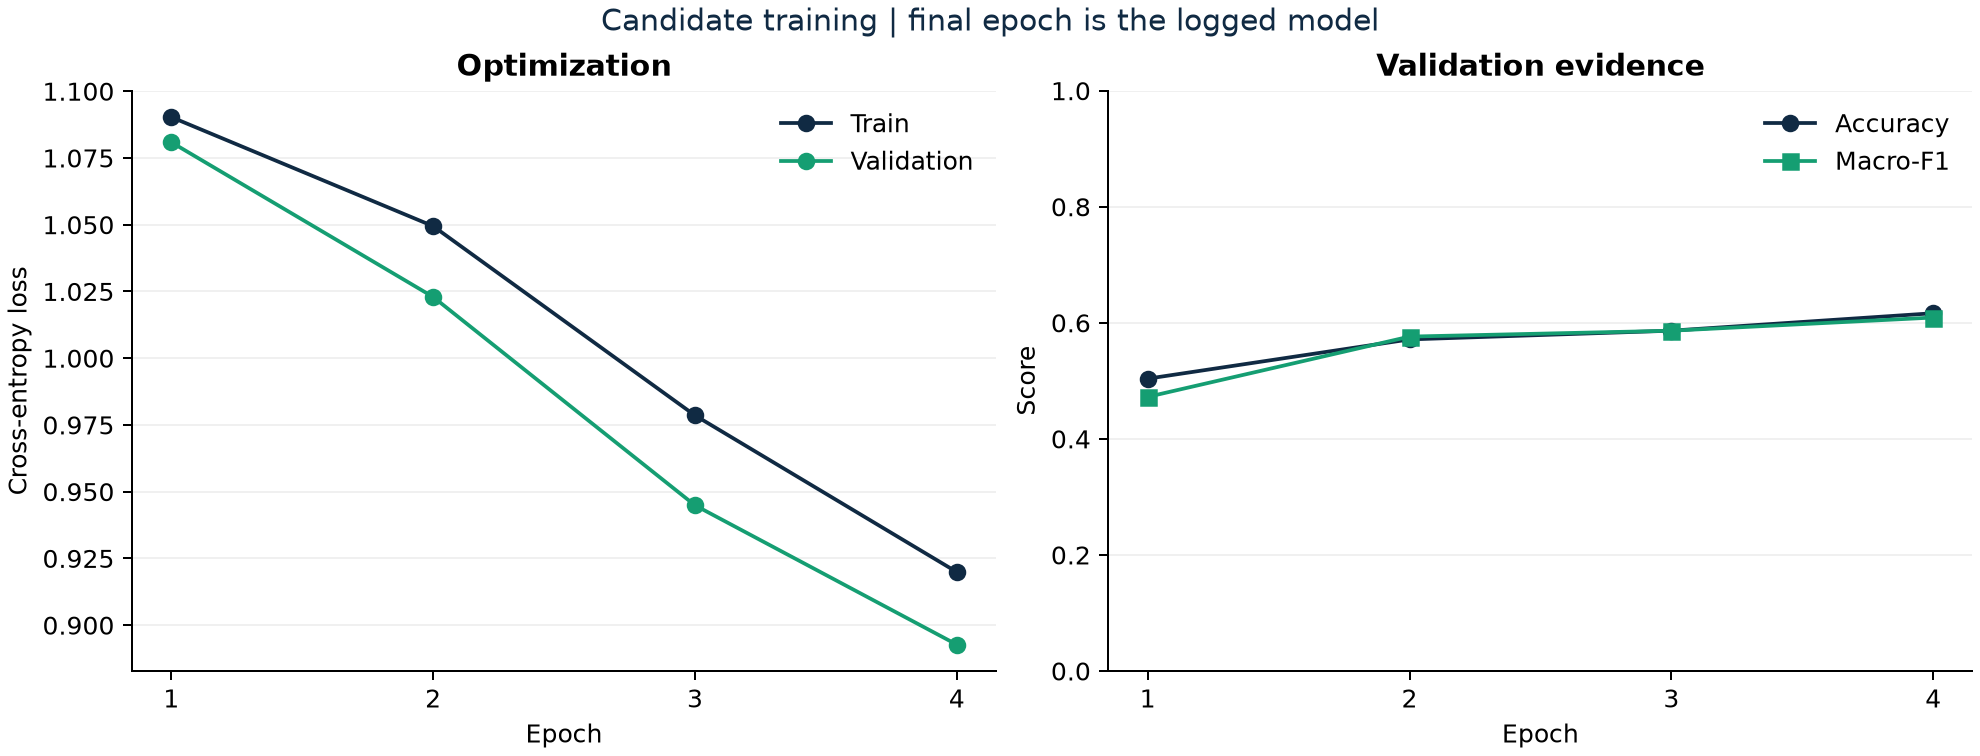
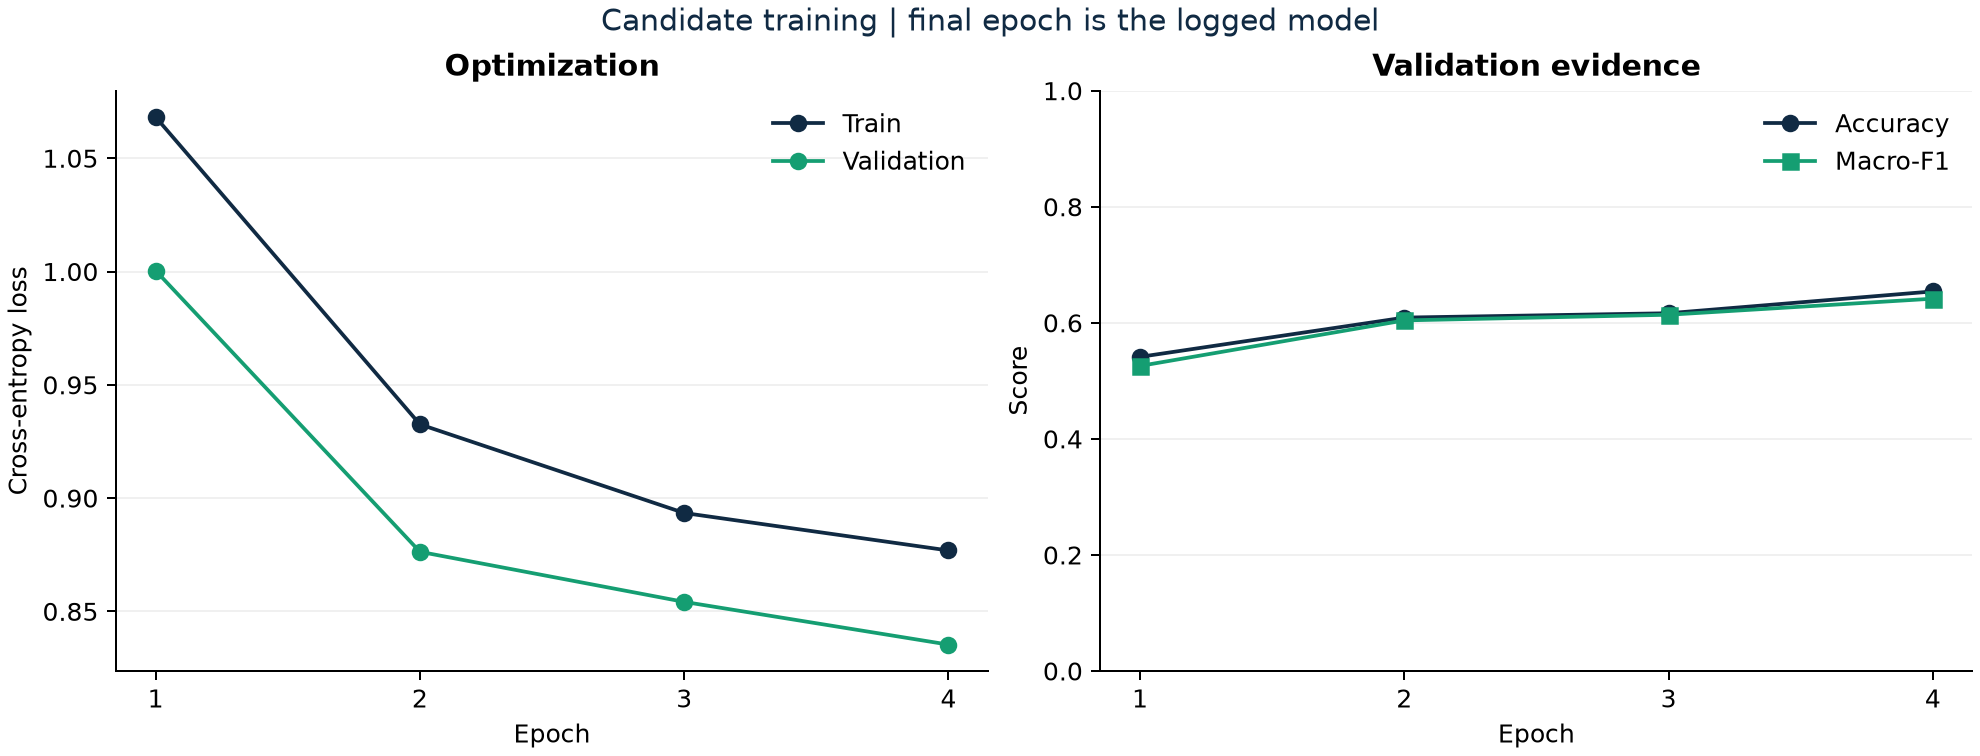
Compare three training runs

diff --git a/LAB_REPORT.md b/LAB_REPORT.md
@@ -104,3 +104,19 @@ Run ID (Run B): 19c50be4db0d4fd7bf8adb6e40748ffb
 ### 7.1 Run C Hypothesis (`augmentation.enabled: true`)
 * **Modification contrôlée par rapport au Run A :** `learning_rate` remis à `0.001` (valeur de base), et activation de l'augmentation de données (`augmentation.enabled: false` $\rightarrow$ `true`, avec `horizontal_flip: 0.5` et `rotation_degrees: 15`).
 * **Effet attendu et justification :** L'augmentation de données applique des transformations aléatoires (miroir horizontal, rotations) à chaque époque, ce qui réduit le surapprentissage sur le petit jeu d'entraînement (1 034 images) et favorise la généralisation. Cependant, comme l'entraînement ne dure que 4 époques, la tâche d'apprentissage devient plus difficile à court terme : on s'attend à une perte d'entraînement (`train_loss`) plus élevée et à un score de validation (`val_macro_f1`) proche ou légèrement inférieur à celui du Run A sur 4 époques.
+
+
+### 7.2 Validation Results Comparison
+
+| Run | Controlled change | Val. Accuracy (Epoch 4) | Val. Macro-F1 (Epoch 4) | Training time (s) | MLflow Run ID |
+| :--- | :--- | :--- | :--- | :--- | :--- |
+| **A** | Baseline (`lr=0.001, aug=False, dropout=0.30`) | `0.6391` | `0.6254` | `14.6s` | `f8e01a5e404b4f05baae19fdcd6b55e1` |
+| **B** | Lower learning rate (`lr=0.0003`) | `0.6165` | `0.6091` | `13.2s` | `19c50be4db0d4fd7bf8adb6e40748ffb` |
+| **C** | Data augmentation (`augmentation.enabled=True`, `rotation_degrees=10`) | `0.6541` | `0.6416` | `12.0s` | `fabfdbf39ed74d03893722308ab2ad55` |
+
+* **Comparaison B vs A :** La baisse du taux d'apprentissage à `0.0003` réduit le `val_macro_f1` final de `0.6254` à `0.6091` (`-0.0163`). Cela confirme notre prédiction : sur seulement 4 époques, un pas d'apprentissage plus petit ralentit la convergence et ne permet pas au modèle d'atteindre le niveau de performance de la référence.
+* **Comparaison C vs A :** L'activation de l'augmentation de données (`augmentation.enabled=True`) fait passer le `val_macro_f1` final de `0.6254` à `0.6416` (`+0.0162`) et la `val_accuracy` de `0.6391` à `0.6541`, tout en présentant une perte d'entraînement (`train_loss = 0.8769` vs `0.8672`) légèrement supérieure comme prévu. L'augmentation limite le surapprentissage et améliore la généralisation sur le jeu de validation. Toutefois, ces expériences reposant sur une seule graine aléatoire (`random_state=42`) et un petit jeu de validation de 133 images, cet écart modéré doit être interprété avec prudence et ne garantit pas à lui seul un gain statistique sur d'autres graines.
+
+#### Engineering Checkpoint 6
+* **Justification de la métrique principale (`val_macro_f1`) :** Pour une classification multiclasse à 3 catégories (`angular_leaf_spot`, `bean_rust`, `healthy`), la *Macro-F1* calcule la moyenne arithmétique du score F1 (équilibre précision/rappel) de chaque classe indépendamment de sa fréquence. Elle garantit ainsi que le modèle sélectionné détecte correctement les trois états sanitaires sans négliger une classe au profit des autres.
+* **Pourquoi n'utiliser le jeu de test qu'après la sélection du modèle ?** Le jeu de test (`test`, 128 images) doit rester une mesure impartiale de la capacité de généralisation sur des données totalement inédites. Si on l'utilisait pour comparer A, B et C et choisir les hyperparamètres, on introduirait une fuite d'information (*data leakage* / surapprentissage sur le jeu de test), ce qui rendrait l'évaluation finale artificiellement optimiste.
